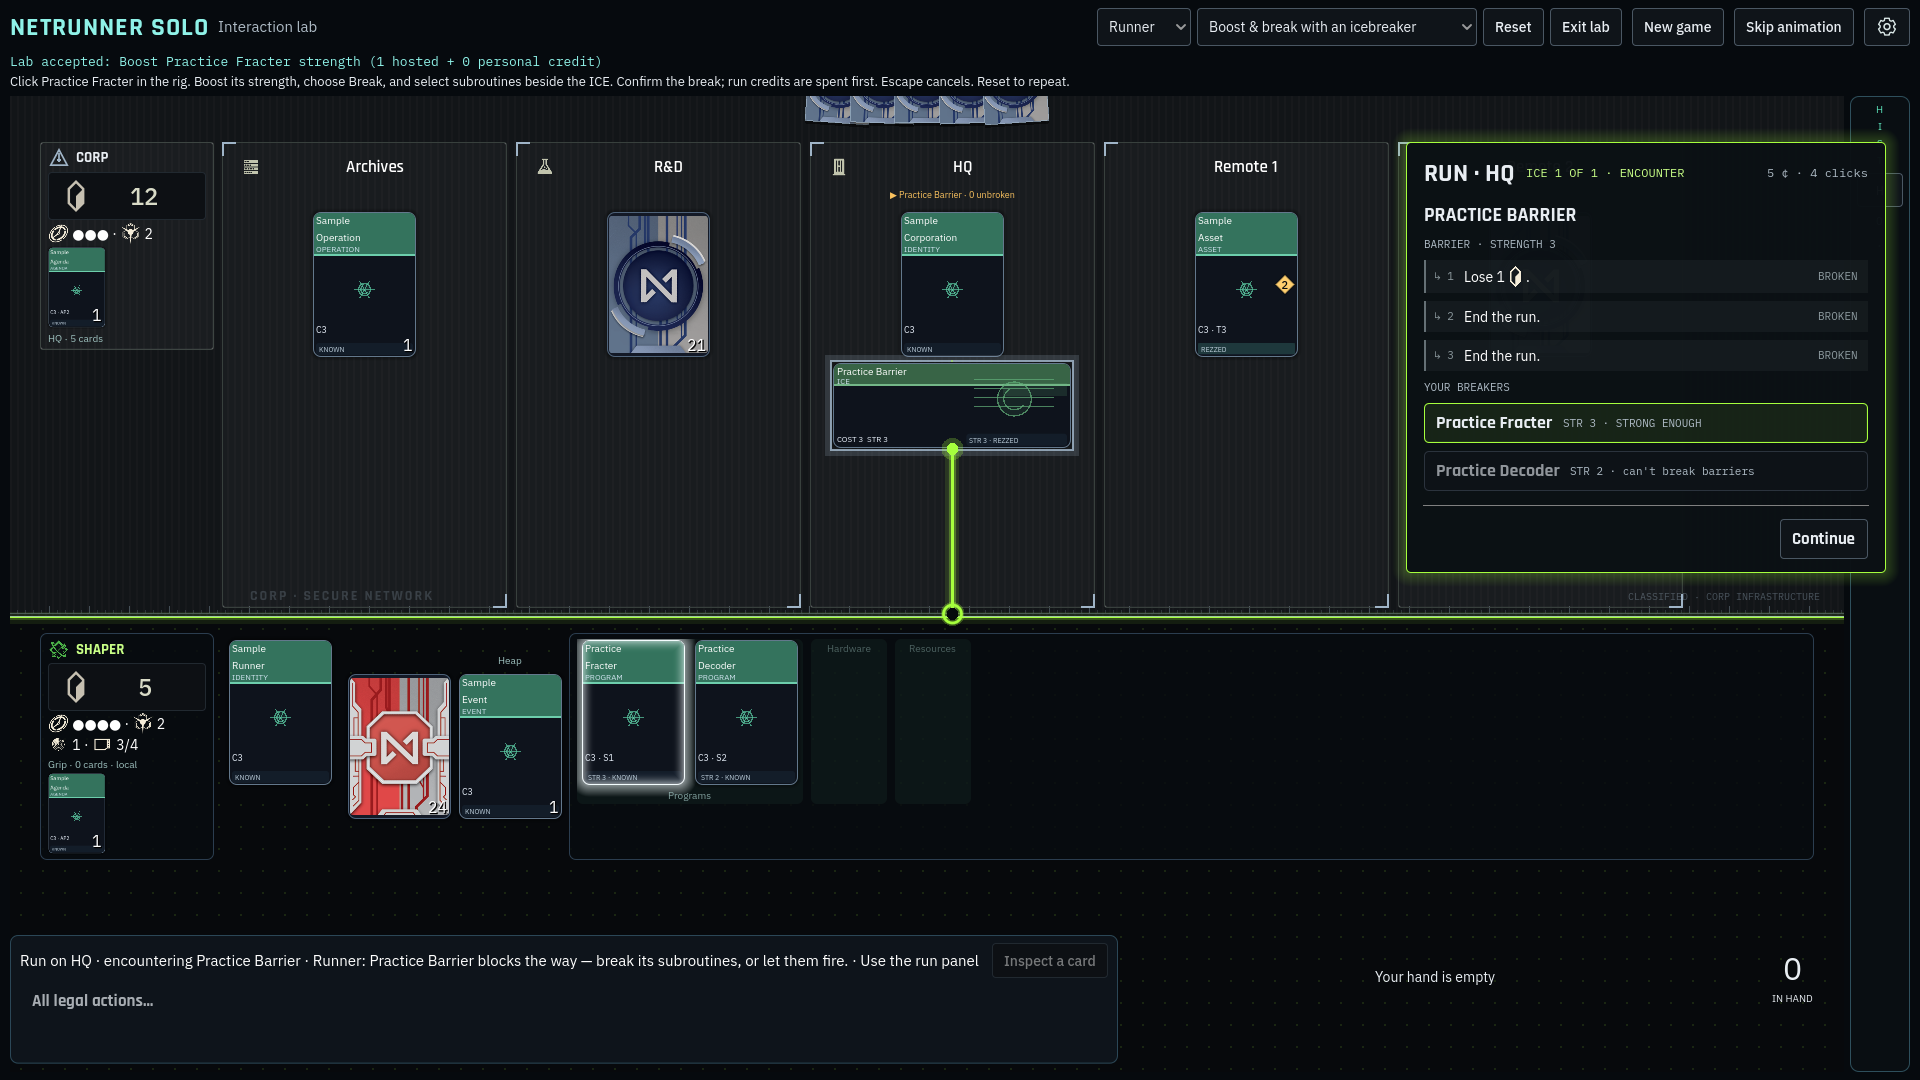
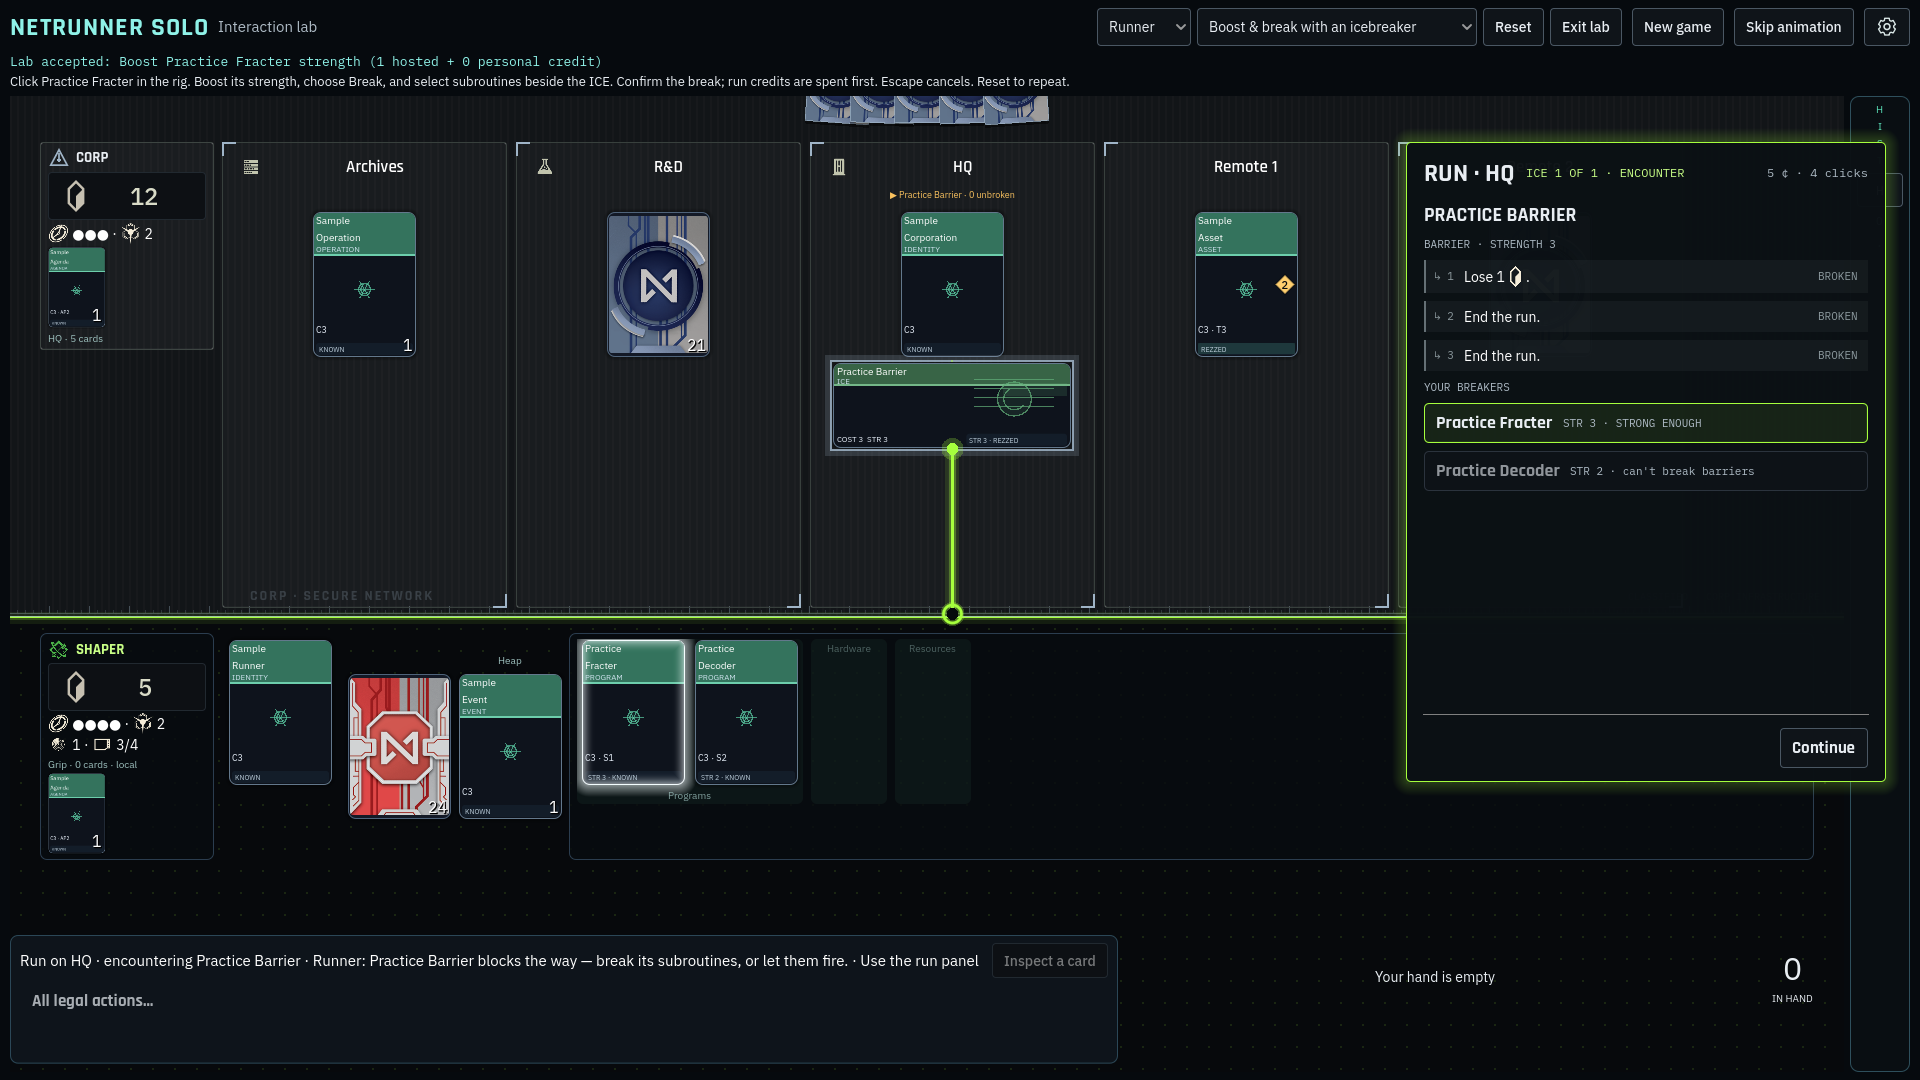
fix: access inside the run HUD, a standing HUD height, the run line over the ICE
The accessed card and its steal, trash or leave actions are now in the HUD;
the old access panel slid behind a tall HUD and left an empty panel with no
way on (accessing Tithe from HQ). The HUD keeps a standing height and grows
only for an unusually long step, with no scrolling, so it no longer jumps.
The run connection draws above emphasized cards, so the line goes through the
encountered ICE and a passed ICE shows its derez without a hover.

Changed region(s): [[0.7188, 0.4889, 1.0, 0.7333]]

diff --git a/src/Netrunner.Godot/scenes/Main.RunHud.cs b/src/Netrunner.Godot/scenes/Main.RunHud.cs
@@ -17,6 +17,12 @@ namespace Netrunner.GodotClient;
 public partial class Main
 {
 	private const float RunHudWidth = 480;
+	/// <summary>
+	/// The HUD's standing height (playtest, 29 September: sizing it to its content made it
+	/// jump as snapshots came in). Tall enough for most steps; only an unusually long one
+	/// grows it. No scrolling in the game UI.
+	/// </summary>
+	private const float RunHudHeight = 640;
 	private PanelContainer? _runHud;
 	private VBoxContainer? _runHudBody;
 	private Label? _runHudTitle;
@@ -26,8 +32,6 @@ public partial class Main
 	private CheckButton? _runHudSetting;
 	private string? _runHudServerId;
 	private MatchViewModel? _runHudView;
-	private string? _runHudHeightKey;
-	private float _runHudHeight;
 	private string? _breakAllBreaker;
 	private string? _breakAllEncounter;
 	private long _breakAllSubmittedSequence = -1;
@@ -57,7 +61,6 @@ public partial class Main
 			Visible = false,
 			ZIndex = 110,
 			MouseFilter = Control.MouseFilterEnum.Stop,
-			CustomMinimumSize = new Vector2(RunHudWidth, 0)
 		};
 		_runHud.AddThemeStyleboxOverride("panel", new StyleBoxFlat
 		{
@@ -108,7 +111,8 @@ public partial class Main
 		header.AddChild(_runHudCredits);
 		content.AddChild(header);
 
-		_runHudBody = new VBoxContainer { Name = "Body", MouseFilter = Control.MouseFilterEnum.Ignore };
+		// The body takes the spare height, so the footer stays pinned at the bottom.
+		_runHudBody = new VBoxContainer { Name = "Body", SizeFlagsVertical = Control.SizeFlags.ExpandFill, MouseFilter = Control.MouseFilterEnum.Ignore };
 		_runHudBody.AddThemeConstantOverride("separation", 8);
 		content.AddChild(_runHudBody);
 
@@ -130,7 +134,7 @@ public partial class Main
 		{
 			ActionKind.PumpBreaker or ActionKind.BreakSubroutines => BoardIcebreakerPresenter.Source(action) is not null,
 			ActionKind.PassPriority or ActionKind.JackOut or ActionKind.ContinueRun or ActionKind.UseBioroidAbility
-			or ActionKind.ChooseBreachCandidate => true,
+			or ActionKind.ChooseBreachCandidate or ActionKind.StealAgenda or ActionKind.TrashAccessedCard or ActionKind.NoAccessAction => true,
 			ActionKind.UseAbility => view.Run?.Encounter is { Status: RunEncounterStatus.Initialized },
 			_ => false,
 		};
@@ -183,8 +187,8 @@ public partial class Main
 			BuildCorpSection(view, run, issued, mine);
 		else if (!encounterShown && issued.Any(action => action.Kind == ActionKind.ChooseBreachCandidate))
 			BuildBreachSection(snapshot, issued);
-		else if (!encounterShown && AccessActionsPresenter.Card(view) is { IsKnown: true })
-			_runHudBody!.AddChild(MakeWrappedLabel("Accessing. Choose what to do with the card below.", 13, Muted));
+		else if (!encounterShown && AccessActionsPresenter.Card(view) is { IsKnown: true } accessed)
+			BuildAccessSection(view, accessed, issued);
 		else if (!encounterShown)
 			_runHudBody!.AddChild(MakeWrappedLabel(RunHudWaitingText(view, run, mine,
 				view.LegalActions.Any(action => !RunHudTakes(action, view))), 13, Muted));
@@ -219,6 +223,61 @@ public partial class Main
 			parent.RemoveChild(child);
 			child.QueueFree();
 		}
+	}
+
+	/// <summary>
+	/// The card being accessed (U8), shown in the HUD with its steal, trash or leave
+	/// actions. The separate access panel stays hidden while the HUD owns the run
+	/// (playtest, 29 September: docked under a tall HUD it slid behind it).
+	/// </summary>
+	private void BuildAccessSection(MatchViewModel view, CardViewModel card, IReadOnlyList<LegalActionViewModel> issued)
+	{
+		VBoxContainer body = _runHudBody!;
+		body.AddChild(new Label { Text = "ACCESSING", ThemeTypeVariation = "MonoLabel", MouseFilter = Control.MouseFilterEnum.Ignore });
+		HBoxContainer row = new() { MouseFilter = Control.MouseFilterEnum.Ignore };
+		row.AddThemeConstantOverride("separation", 14);
+		TableCardControl face = TableCardControl.Create();
+		face.Name = "AccessedCard";
+		face.MouseFilter = Control.MouseFilterEnum.Ignore;
+		face.FocusMode = Control.FocusModeEnum.None;
+		row.AddChild(face);
+		face.SetCard(card);
+		face.SetBackSide(PlayerSide.Corp);
+		face.SetDisplaySize(TableCardControl.PortraitCardSize * 0.8f);
+		face.CustomMinimumSize = TableCardControl.PortraitCardSize * 0.8f;
+		VBoxContainer side = new() { SizeFlagsHorizontal = Control.SizeFlags.ExpandFill, MouseFilter = Control.MouseFilterEnum.Ignore };
+		side.AddThemeConstantOverride("separation", 8);
+		Label title = new()
+		{
+			Text = AccessTitle(card, view),
+			ThemeTypeVariation = "DisplayLabel",
+			AutowrapMode = TextServer.AutowrapMode.WordSmart,
+			MouseFilter = Control.MouseFilterEnum.Ignore
+		};
+		title.AddThemeFontSizeOverride("font_size", 20);
+		side.AddChild(title);
+		string kind = string.Join(" · ", new[] { card.Type }.Concat(card.Subtypes)).ToUpperInvariant();
+		side.AddChild(new Label
+		{
+			Text = kind,
+			ThemeTypeVariation = "MonoLabel",
+			AutowrapMode = TextServer.AutowrapMode.WordSmart,
+			MouseFilter = Control.MouseFilterEnum.Ignore
+		});
+		HashSet<ActionId> offered = [.. issued.Select(action => action.Id)];
+		foreach (LegalActionViewModel action in AccessActionsPresenter.Actions(view).Where(action => offered.Contains(action.Id)))
+		{
+			Button button = RunHudButton(FriendlyText(AccessActionsPresenter.Label(action, card)),
+				action.Kind is ActionKind.StealAgenda or ActionKind.TrashAccessedCard ? RunHudTone.Primary : RunHudTone.Normal);
+			button.TooltipText = action.CostSummary ?? button.Text;
+			button.Pressed += () => SubmitRunHudAction(action);
+			side.AddChild(button);
+			_runHudButtons[action.Id] = button;
+		}
+		if (view.Run!.RunCredits > 0 && offered.Count > 0)
+			side.AddChild(MakeWrappedLabel($"{view.Run.RunCredits} run credits available · spent first, gone at run end.", 12, Muted));
+		row.AddChild(side);
+		body.AddChild(row);
 	}
 
 	/// <summary>
@@ -624,18 +683,10 @@ public partial class Main
 		// Keep the width fixed and follow only the content's height. Shrinking to
 		// zero width first (ResetSize) rewrapped every label each frame and made
 		// the panel's height jump between tall and short.
-		// Snapshots alternate between the opponent's priority (no buttons) and the
-		// player's decision (buttons) at the same point of the run; hold the tallest
-		// height for that point so the panel doesn't jump between them.
-		string heightKey = _currentSnapshot?.View.Run is { } run
-			? $"{run.Id}:{run.CurrentIceIndex}:{run.Step}:{run.Encounter?.Id}:{run.Access.State}:{run.Access.Accessed.Count}" : string.Empty;
-		if (heightKey != _runHudHeightKey)
-		{
-			_runHudHeightKey = heightKey;
-			_runHudHeight = 0;
-		}
-		_runHudHeight = Math.Max(_runHudHeight, hud.GetCombinedMinimumSize().Y);
-		Vector2 wanted = new(RunHudWidth, _runHudHeight);
+		// The standing height, or the content's if a step needs more; never taller than the table.
+		hud.CustomMinimumSize = new Vector2(RunHudWidth, 0);
+		float height = Math.Max(RunHudHeight, hud.GetCombinedMinimumSize().Y);
+		Vector2 wanted = new(RunHudWidth, Math.Min(height, _tableViewport.Size.Y - 24));
 		if (!hud.Size.IsEqualApprox(wanted)) hud.Size = wanted;
 		Rect2? lane = _runHudServerId is { } server ? _gameTable.GetServerLaneRect(server) : null;
 		Vector2 size = hud.Size;
@@ -652,7 +703,7 @@ public partial class Main
 		}
 		hud.Position = new Vector2(Math.Clamp(x, 12, Math.Max(12, _tableViewport.Size.X - size.X - 12)),
 			Math.Clamp(y, 12, Math.Max(12, _tableViewport.Size.Y - size.Y - 12)));
-		if (_tableAccessPanel is { Visible: true } access)
+		if (_tableAccessPanel is { Visible: true } access && !RunHudActive)
 		{
 			access.ResetSize();
 			Rect2 hudRect = hud.GetGlobalRect();

diff --git a/src/Netrunner.Godot/scenes/validation/Main.RunHudSmoke.cs b/src/Netrunner.Godot/scenes/validation/Main.RunHudSmoke.cs
@@ -165,6 +165,41 @@ public partial class Main
 		}
 	}
 
+	/// <summary>
+	/// Playtest, 29 September: accessing Tithe from HQ left an empty HUD, its Leave card button
+	/// hidden in the old access panel behind it. The accessed card and its actions are in the HUD.
+	/// </summary>
+	private async Task CheckAccessInHud(Vector2I size)
+	{
+		MatchViewModel view = _currentSnapshot!.View;
+		CardViewModel tithe = UiPreviewSamples.Known("lab-accessed", "ICE", "Practice Tithe") with { Subtypes = ["Sentry"] };
+		MatchViewModel access = view with
+		{
+			Run = view.Run! with
+			{
+				Step = RunTimingStep.BreachAccessAbility,
+				Encounter = null,
+				CurrentIceIndex = -1,
+				CurrentIce = null,
+				Priority = null,
+				Access = view.Run.Access with { State = RunAccessState.InProgress, Accessed = [tithe] }
+			},
+			Decision = InteractionLabSamples.Decision(PlayerSide.Runner, _labRevision, DecisionKind.RunTiming, "Mid-access ability or no action"),
+			LegalActions = [InteractionLabSamples.Action("leave", ActionKind.NoAccessAction, new NoActionParameters(), _labRevision)],
+		};
+		PublishLabView(access);
+		await TableFrames(4);
+		Button? leave = FindDescendants<Button>(_runHud!.GetNode("Content/Body")).FirstOrDefault(button => button.Text == "Leave card");
+		RequireInteraction(_runHud.FindChild("AccessedCard", true, false) is TableCardControl && leave is { Disabled: false },
+			"The HUD does not show the accessed card with its Leave card action.");
+		RequireInteraction(!_tableAccessPanel.Visible, "The old access panel still shows beside the HUD.");
+		RequireInteraction(_tableViewport.GetGlobalRect().Encloses(_runHud.GetGlobalRect()), "The HUD escaped the table while accessing.");
+		if (OS.GetCmdlineUserArgs().Contains("--run-hud-screenshots")) await SaveInteractionEvidence($"run-hud-access-{size.X}");
+		int submissions = _labSubmissionCount;
+		await ClickTableButton(leave!);
+		RequireInteraction(_labSubmissionCount == submissions + 1, "Leave card from the HUD did not submit exactly once.");
+	}
+
 	private async Task RunRunHudSmokeAsync()
 	{
 		try
@@ -191,6 +226,9 @@ public partial class Main
 				ResetInteractionLab();
 				await TableFrames(6);
 				await CheckHeightAcrossPriority();
+				ResetInteractionLab();
+				await TableFrames(6);
+				await CheckAccessInHud(size);
 				ResetInteractionLab();
 				await TableFrames(6);
 				_gameTable.StopMotion();
@@ -227,7 +265,7 @@ public partial class Main
 				await TableFrames(3);
 				RequireInteraction(_runHud.Visible == false && !RunHudActive, "The HUD stayed open after the run moved on.");
 			}
-			GD.Print("RUN_HUD PASS resolutions=2 replaces_panels=true breakers=true break_all=true quoted=true footer=true closes=true corp_rez=true passed_ice=true jack_out_after_settling=true breach_choices=true steady_height=true priority_flips=true");
+			GD.Print("RUN_HUD PASS resolutions=2 replaces_panels=true breakers=true break_all=true quoted=true footer=true closes=true corp_rez=true passed_ice=true jack_out_after_settling=true breach_choices=true steady_height=true priority_flips=true access=true");
 			QuitCleanly();
 		}
 		catch (Exception error)

diff --git a/src/Netrunner.Godot/scenes/Main.CardTable.cs b/src/Netrunner.Godot/scenes/Main.CardTable.cs
@@ -181,7 +181,8 @@ public partial class Main
 		_gameTable.Render(snapshot.View);
 		CardViewModel? accessed = AccessActionsPresenter.Card(snapshot.View);
 		_tableAccessCard.SetCard(accessed);
-		_tableAccessPanel.Visible = accessed is { IsKnown: true } && _accessAllRunId is null;
+		// The run HUD shows the accessed card itself; the separate panel is for scripted runs.
+		_tableAccessPanel.Visible = accessed is { IsKnown: true } && _accessAllRunId is null && !RunHudOwns(snapshot);
 		_tableAccessTitle.Text = AccessTitle(accessed, snapshot.View);
 		RefreshRunOverlays(snapshot);
 		if (RunHudOwns(snapshot) && _encounterOverlay is not null) _encounterOverlay.Visible = false;

diff --git a/src/Netrunner.Godot/scenes/GameTableControl.RunConnection.cs b/src/Netrunner.Godot/scenes/GameTableControl.RunConnection.cs
@@ -26,7 +26,9 @@ public partial class GameTableControl
 	private void EnsureRunConnection()
 	{
 		if (_runConnection is not null) return;
-		_runConnection = new Control { Name = "RunConnection", MouseFilter = MouseFilterEnum.Ignore, ZIndex = 24 };
+		// Above emphasized cards (the encountered ICE is raised to 30), below the hand (35):
+		// the line goes through the ICE, and a passed ICE's derez shows over it.
+		_runConnection = new Control { Name = "RunConnection", MouseFilter = MouseFilterEnum.Ignore, ZIndex = 32 };
 		AddChild(_runConnection);
 		_runConnection.SetAnchorsAndOffsetsPreset(LayoutPreset.FullRect);
 		_runConnection.Draw += DrawRunConnection;
